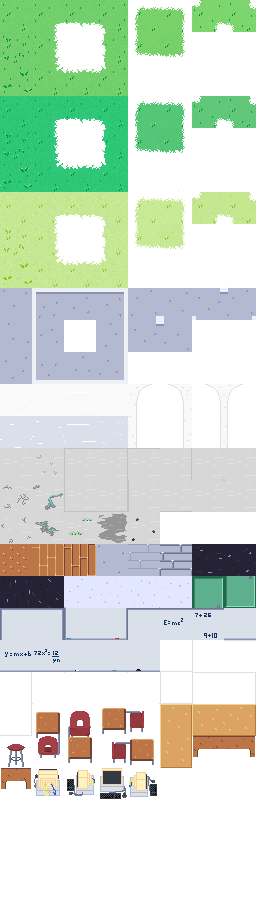
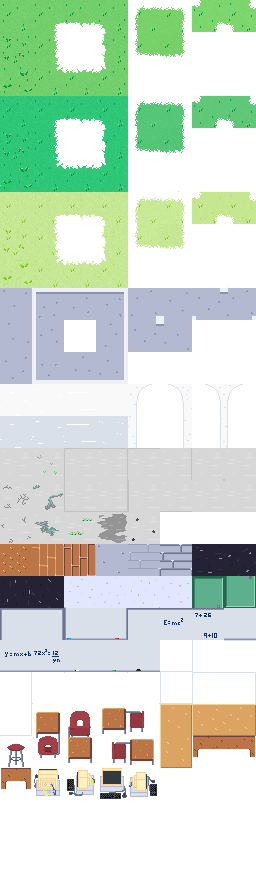
Fix pixel bleeding(in scene 4 at least)

diff --git a/src/scenes/scene4.js b/src/scenes/scene4.js
@@ -17,7 +17,7 @@ export class Scene4 extends Phaser.Scene {
 
      preload ()
 {
-    this.load.image('mainTileSheet', 'assets/TileSheets/Tiles_V6.png');
+    this.load.image('mainTileSheet', 'assets/TileSheets/Tiles_V6_extruded.png');
     this.load.tilemapCSV('scene4layer2', 'assets/MapCSVs/level4layer2.csv');
     this.load.tilemapCSV('scene4layer1', 'assets/MapCSVs/level4layer1.csv');
     this.load.spritesheet('player', 'assets/Entities/player.png', { frameWidth: 32, frameHeight: 32 });
@@ -48,12 +48,12 @@ init (data)
     this.Keystrokes = [];
     this.fireballEnabled = true
 
-    layer1map = this.make.tilemap({ key: 'scene4layer1', tileWidth: 32, tileHeight: 32 });  //dark grass
-    var tileset1 = layer1map.addTilesetImage('mainTileSheet');
+    layer1map = this.make.tilemap({ key: 'scene4layer1', tileWidth: 32, tileHeight: 32});  //dark grass
+    var tileset1 = layer1map.addTilesetImage('mainTileSheet', undefined, 32, 32, 1, 2);
     var layer1 = layer1map.createStaticLayer(0, tileset1, 0, 0);
 
-    map = this.make.tilemap({ key: 'scene4layer2', tileWidth: 32, tileHeight: 32 });   //grass
-    var tileset = map.addTilesetImage('mainTileSheet');
+    map = this.make.tilemap({ key: 'scene4layer2', tileWidth: 32, tileHeight: 32});   //grass
+    var tileset = map.addTilesetImage('mainTileSheet', undefined, 32, 32, 1, 2);
     this.layer = map.createStaticLayer(0, tileset, 0, 0);
     map.setCollisionBetween(70, 70);
     map.setCollisionBetween(-1, -1);
